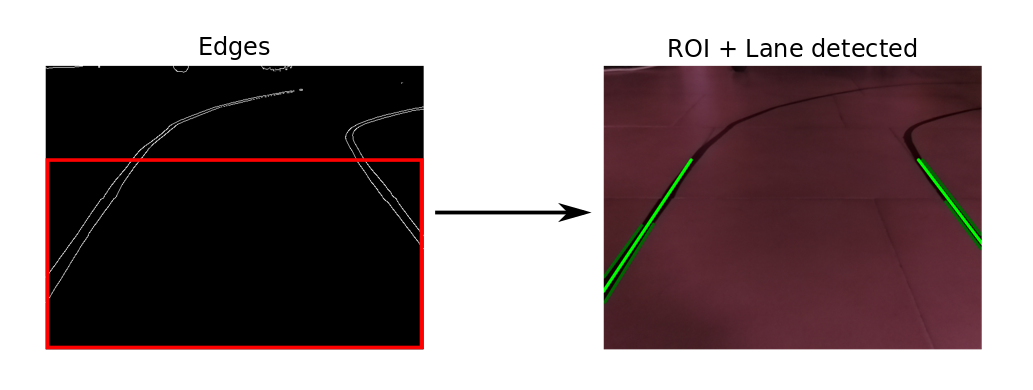
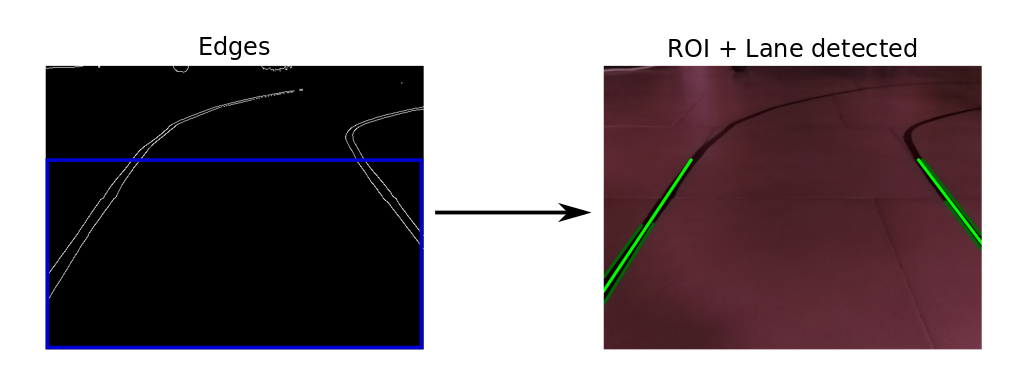
Lane detection Readme Update

Changed region(s): [[0.031, 0.4, 0.4337, 0.9231]]

diff --git a/lane_detection/README.md b/lane_detection/README.md
@@ -2,7 +2,7 @@
 
  <img src="../pics/gif/midline.gif" alt="midgif" width = 400>
  
-The package provide lane detection functionalities for the compressed image coming from the `raspicam_node`. A direction angle is computed and outputted with the topic `/steering_angle`.
+The package provide lane detection functionalities for the compressed image coming from the `raspicam_node`. A direction angle is computed and outputted with the topic `/steering_angle`. A processed image is published to the `/lane_detection/image/compressed` topic.
 The Implementation presented is based on several filters applied to the image, and the subsequent application of Canny algorithm + Hought transform. 
 
 ## **1 - Main dependencies**
@@ -18,7 +18,7 @@ The Implementation presented is based on several filters applied to the image, a
 
 The package subscribe to the topic `/raspicam_node/image/compressed` (type sensor_msgs/CompressedImage), published by the raspicam_node package. Messages are published on topic `/steering_angle`, a custom message designed for passing direction information to the PD controller.
 
-The acquired image go through a specific pipeline in order to extract the the lane/s from the scene. Lanes are then implied in the computation of a direction vector for the LegoCar.
+The acquired image go through a specific pipeline in order to extract the the lane/s from the scene. Lanes are then implied in the computation of a direction vector for the LegoCar. The output of the pipeline process is then published to the `/lane_detection/image/compressed` topic.
 
 The pipeline of the image analysis process is:
 
@@ -112,11 +112,12 @@ The `Canny` function implemented in OpenCV requires only (in addition to the ima
 
 <img src="../pics/edges.png" alt="screen" width = 800>
  
+
 ###  **2.4 - ROI + Lines detection wt Hough transform**
 
  <img src="../pics/gif/avglines.gif" alt="cannygif" width = 300>
 
-Next step in the pipeline consist in selecting a ROI (Region Of Interest), this helps the system eliminate noise information from the image (surroundings and long distance lanes), keeping only the relevant part. The shape of the ROI is shown in the image below (red rectangle), the height of the rectangle is the 66% of the total height of the image.
+Next step in the pipeline consist in selecting a ROI (Region Of Interest), this helps the system eliminate noise information from the image (surroundings and long distance lanes), keeping only the relevant part. The shape of the ROI is shown in the image below (blue rectangle), the height of the rectangle is the 66% of the total height of the image.
 
 <img src="../pics/roi_lanes.png" alt="screen" width = 800>
 
@@ -157,18 +158,29 @@ Below are shown two example of how the implementation handles different scenario
 
 <img src="../pics/gif/midline.gif" alt="midgif" width = 300>
 
-The final step consist in computing the middle line useful for directing the car. The middle line angle with respect to the vertical axis is directly related to the steering that needs to be applied in order to have the car at the center of the both lanes. In order to analyze this last part of the pipeline, let's split the analysis in 2 main scenarios: two average line are identified, one average line are identified.
+The final step consist in computing the middle line useful for directing the car. The middle line angle with respect to the vertical axis is directly related to the steering that needs to be applied in order to have the car at the center of the both lanes. In order to analyze this last part of the pipeline, let's split the analysis in 2 main scenarios: two average Hough lines are identified, one average Hough line is identified.
 
-#### **Two average lines**
-In this case the computation of the middle line is trivial. Indeed, it consist in averaging the top points of both lines and keeping fixed the bottom one exactly to the middle of the image, this because the camera origin is placed exactly in the center of the car, so when the car is placed in the middle of the lanes we want to have e middle line to be perfectly vertical. 
+#### **Two average Hough lines**
+In this case the computation of the middle line is trivial. Indeed, it consist in averaging the top points of both lines and keeping fixed the bottom one exactly to the middle of the image, this because the camera origin is placed exactly in the center of the car, so when the car is placed in the middle of the lanes we want to have e middle line to be perfectly vertical. When the car is not at the center of the track, we would have a line that directs the car to the center. By averaging the top points of the ROI 
 
-#### **One average line**
-In this scenario we have information just from one of the lanes, so it is impossible to position the car in space without further informations. In order to deal with that we need to assume that the car when positioned in the middle of the track and only referencing to just one the lanes must have a vertical middle line. A further step is to assume that the point at the top side of the ROI must be ideally, at the same distance from both lines.
+#### **One average Hough line**
+In this scenario we have relative position just from one of the lanes, so it is impossible to position the car in space without further informations. Since the track has a constant width we can assume that the width as a complementary information for positioning the car. Indeed, the upper point of the line is given by considering the Hough line upper point and then adding the half of the constant width of the track projected in the 2D space of the image.
+For the bottom point, as for the previous scenario, it is fixed to the middle of the image frame.
 
-<img src="../pics/onelane.png" alt="onelane" width = 600>
+<img src="../pics/onelane.png" alt="onelane" width = 800>
 
-We need to extract the distance at the top of the ROI, in order to do that a video bag has been analyzed and data point where both lanes where present are 
-<img src="../pics/lane_distances.png" alt="lanedistances" width = 400>
+We need to extract the constant width of the track projected in the 2D at a specific image frame height (top of ROI), in order to do that a ROS video bag, of a manual ride, has been analyzed and data point where both hough lines where present are considered. The distances are here presented:
+
+<img src="../pics/lane_distances1.png" alt="lanedistances" width = 600>
+
+We have a mean distance of around 380px between, the lines.
+
+Last thing to do is extract the angle between the middle line with respect to the vertical direction. This is then published to the `/steering_angle` topic, and plotted to the published processed image send to `/lane_detection/image/compressed`.
+
+<img src="../pics/middleline.png" alt="middleline" width = 800>
+
+From the image above notice how the system behave similarly when dealing with one or two lines detected.
+
 
  
 
